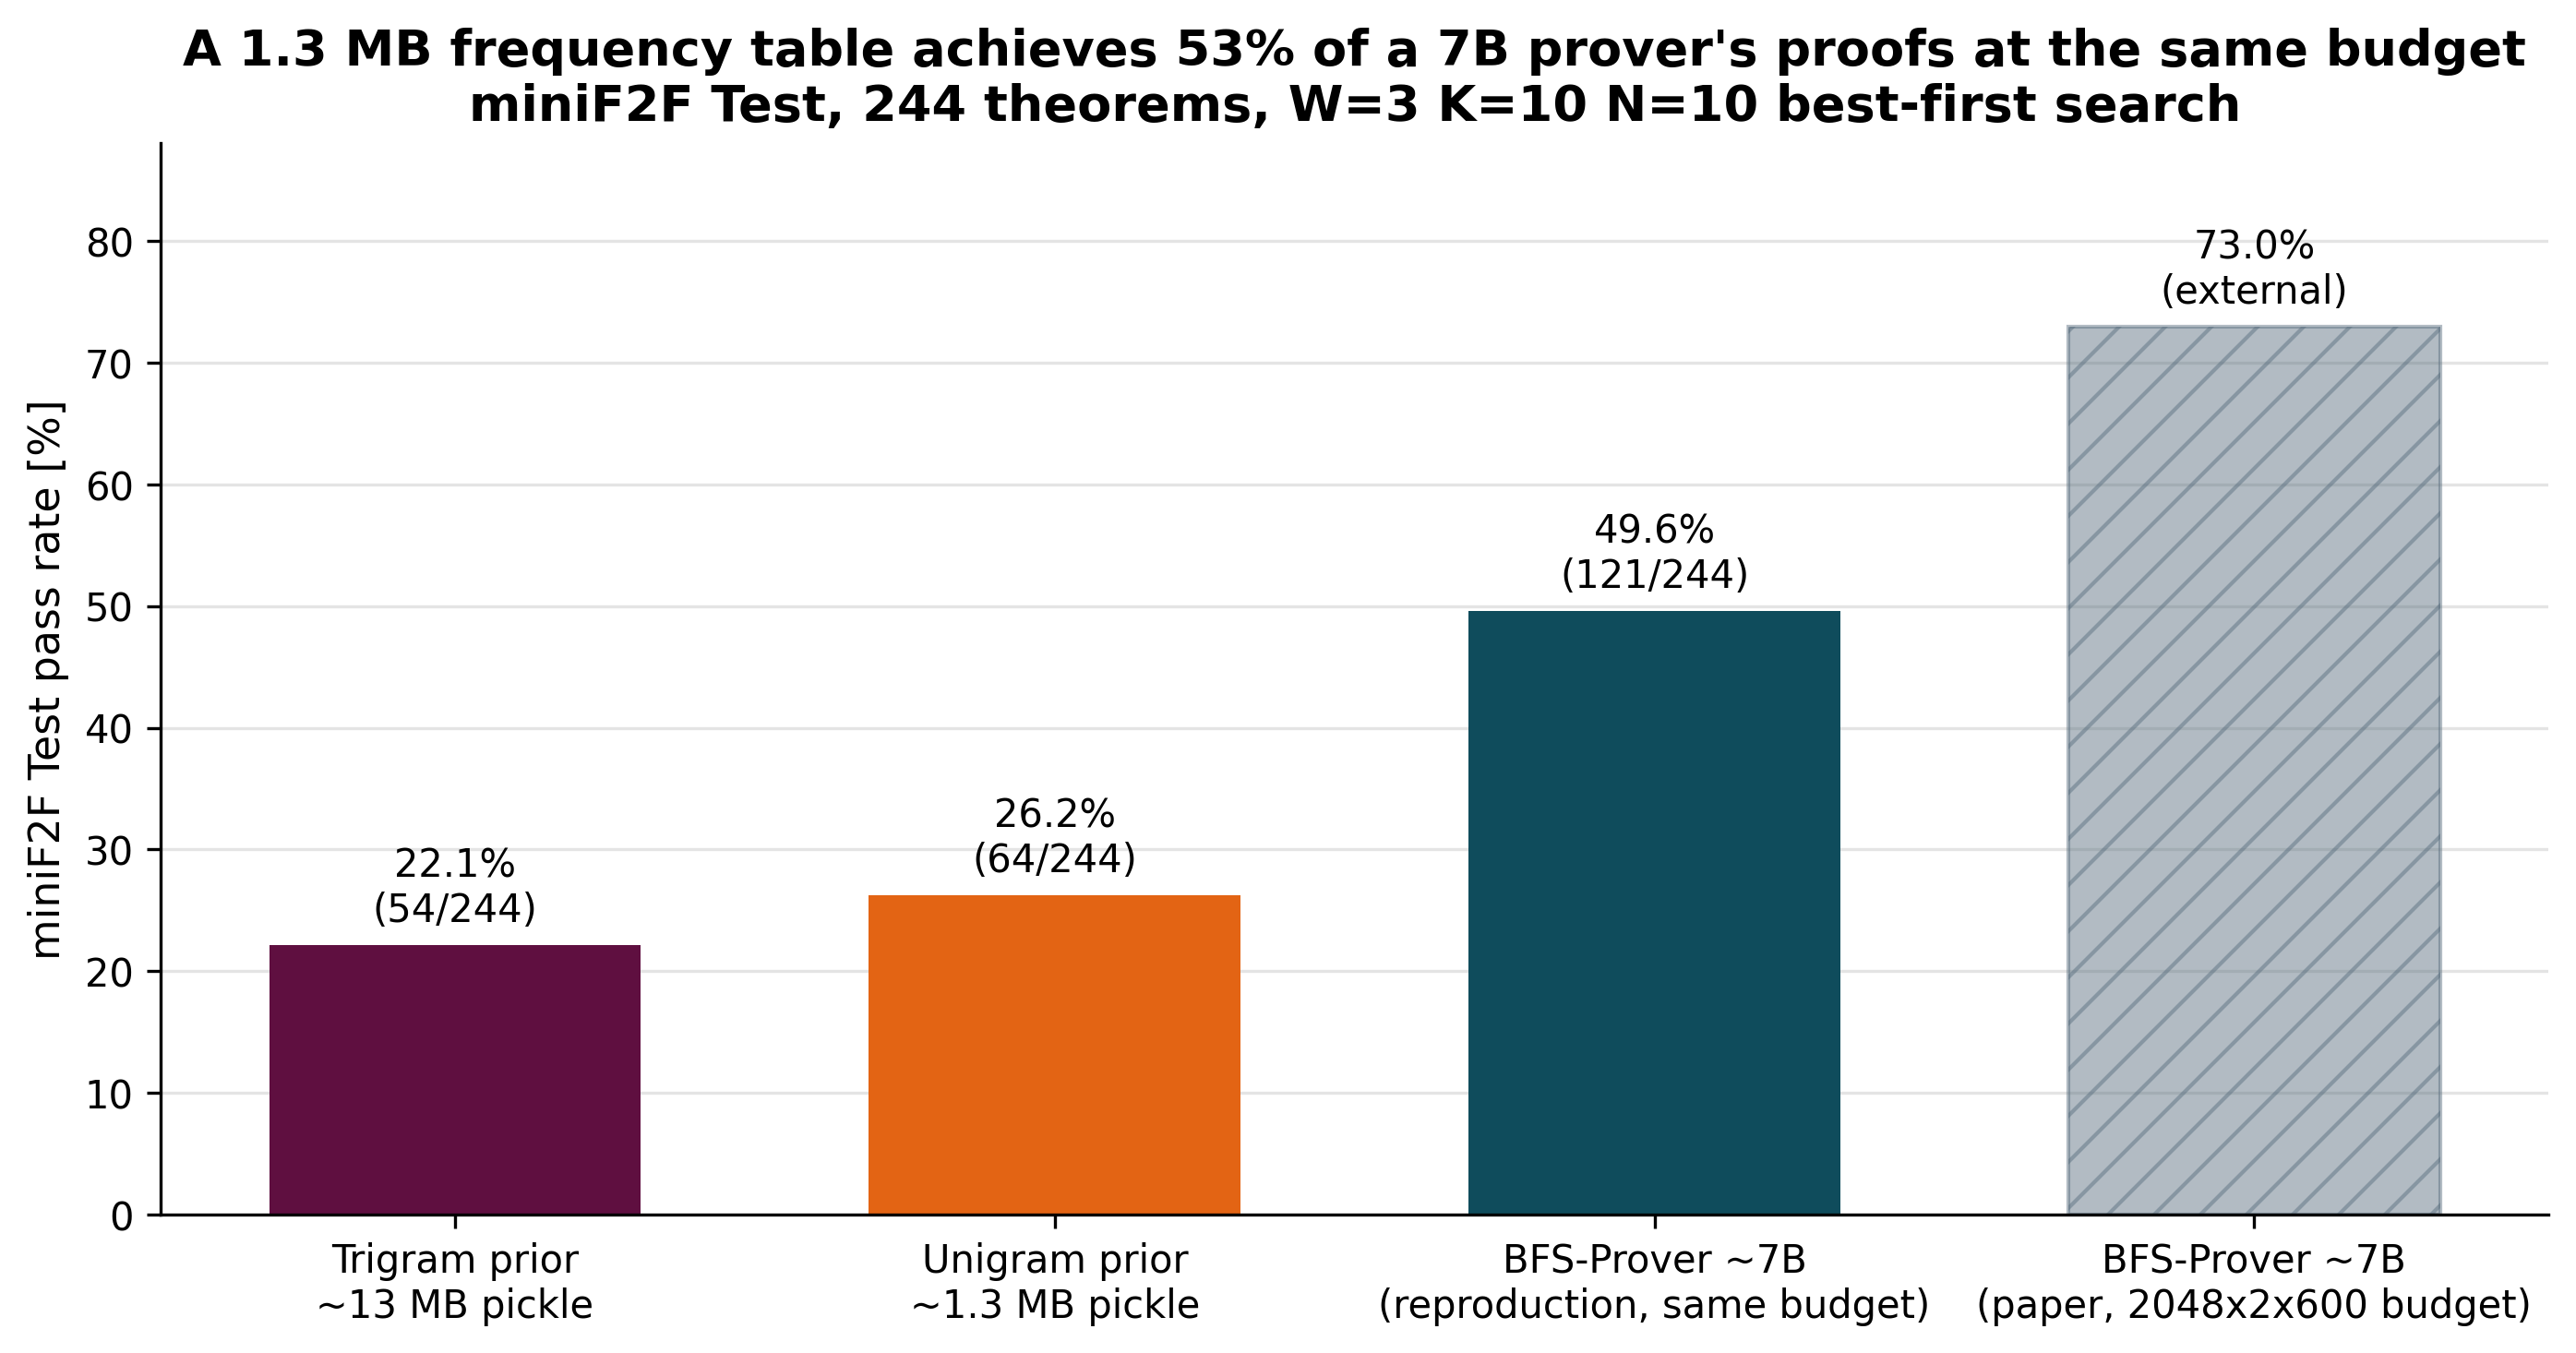
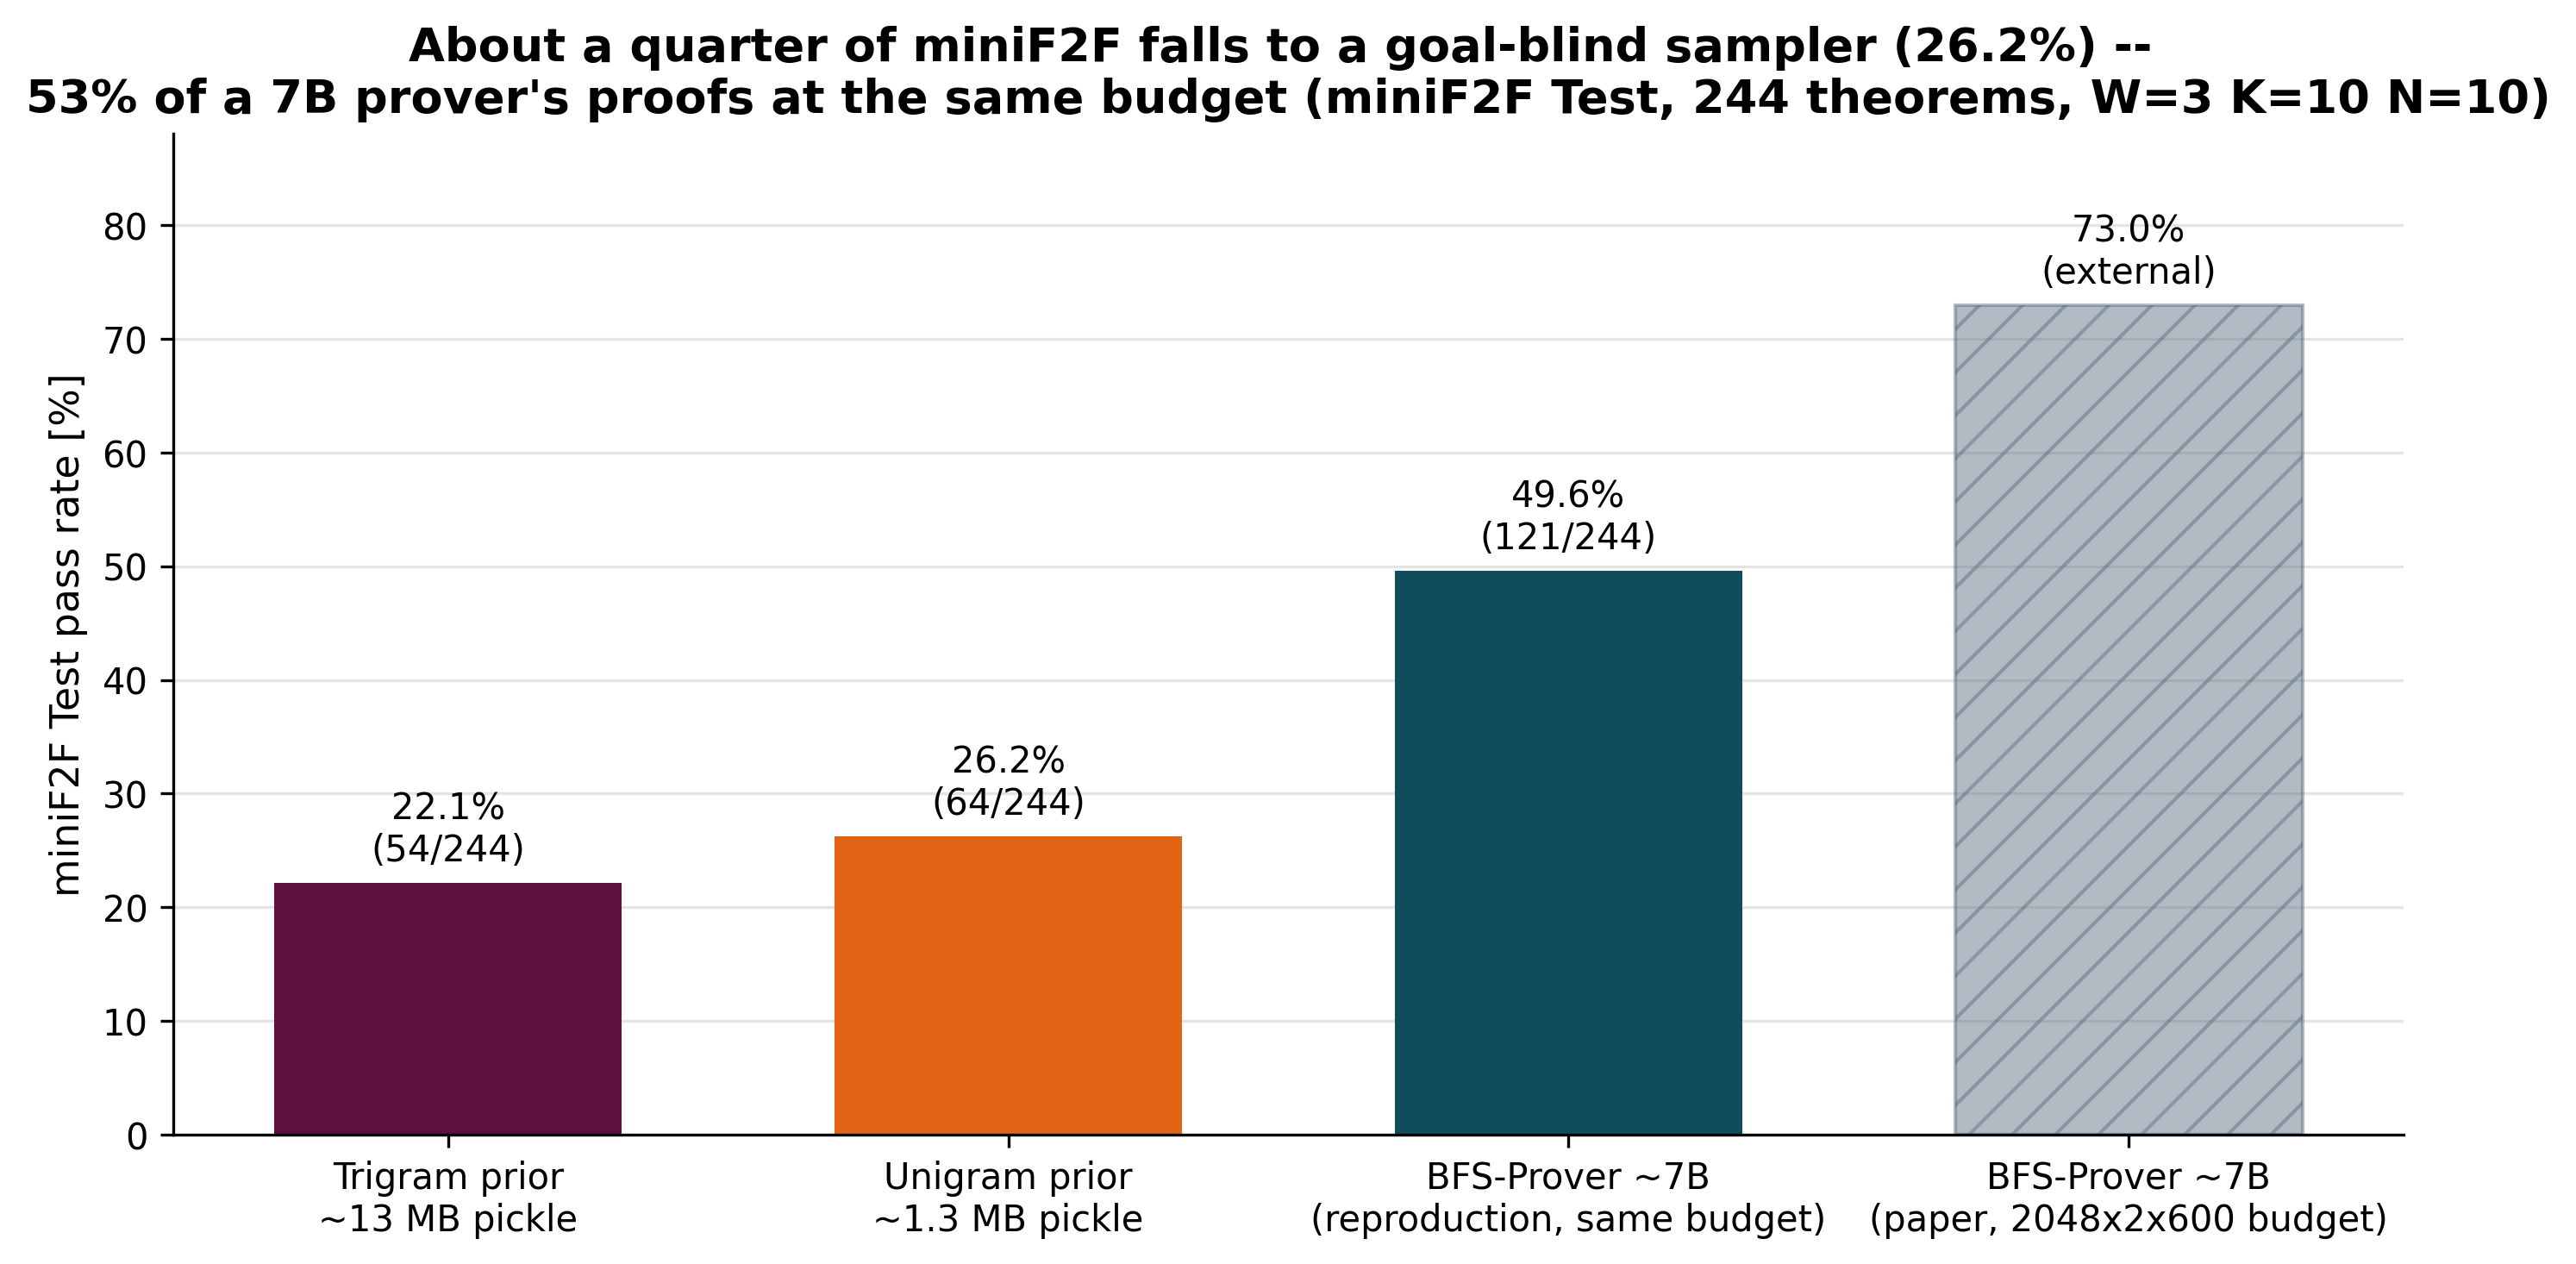
Rebrand to Generated Formal Theorem Proofs; lead with goal-blind quarter-of-miniF2F claim
- README: new project name and headline (about a quarter of miniF2F Test
  falls to goal-blind samplers of the Mathlib4 empirical MLE tactic
  distribution: unigram 26.2%, trigram 22.1%), with the same-budget 7B
  BFS-Prover comparison (49.6%) as the second finding. All numbers unchanged.
- README notes the Python package keeps the name tactic_priors; clone URL
  updated to generated-formal-theorem-proofs; pyproject project name renamed
  (editable install and tests unaffected).
- Evidence hygiene: artifacts/solved_indexes.json explicitly labelled as an
  INTERMEDIATE SNAPSHOT (98/44/50 of 244 solved vs final aggregated
  121/64/54); README, notebook, and methodology state that the final
  per-pass evaluation logs live on the university cluster. The not-a-subset
  finding is qualified as snapshot-level.
- Notebook re-executed end to end (incl. held-out section on
  random/val.json); fig2 regenerated with the new takeaway title. Other
  figures unchanged.

diff --git a/README.md b/README.md
@@ -1,24 +1,33 @@
-# tactic-priors
+# Generated Formal Theorem Proofs
 
-**How much of neural theorem-proving performance is explained by simple
-statistical priors?**
+**Approximately a quarter of miniF2F is trivially provable -- by a sampler
+that never looks at the goal.**
 
-Neural provers for Lean 4 are typically compared against each other, rarely
-against the dumbest possible baseline. This repository asks what a
-*context-free frequency table* of Mathlib4 tactics -- and its trigram
-extension -- can prove on miniF2F when plugged into exactly the same
-best-first proof search as a 7B-parameter neural prover, under exactly the
-same search budget.
+The baselines in this repository are *goal-blind*: neither the unigram nor
+the trigram ever reads the theorem statement or the proof state. They sample
+tactics from the empirical MLE tactic distribution of Mathlib4 (LeanDojo
+Benchmark 4) -- the unigram by raw frequency, the trigram conditioned only on
+the two *preceding tactics*, still never on the goal. Plugged into a standard
+best-first proof search, the unigram proves **26.2%** of miniF2F Test
+(64/244) -- about a quarter of the benchmark -- and the goal-blind trigram
+proves **22.1%** (54/244).
+
+The second finding: under exactly the same search budget, a 7B-parameter
+neural prover (BFS-Prover reproduction) proves **49.6%** (121/244). The
+goal-blind frequency table therefore accounts for roughly half of the neural
+system's small-budget performance -- a baseline that neural provers are
+rarely compared against.
 
 ## Approach
 
 1. Count every traced tactic invocation in LeanDojo Benchmark 4
    (`random/train.json`, Mathlib4) to obtain an empirical tactic
    distribution (16,850 distinct tactic strings occurring more than once).
-2. Build two priors: a **unigram** model (sample tactics by frequency,
-   ignore the proof state) and a **trigram** model (condition on the two
-   preceding tactics, with rare tactics collapsed into a pseudo-word below
-   an empirical-probability threshold of 1e-5).
+2. Build two goal-blind priors: a **unigram** model (sample tactics by
+   frequency, ignore the proof state entirely) and a **trigram** model
+   (condition on the two preceding tactics -- never on the goal -- with rare
+   tactics collapsed into a pseudo-word below an empirical-probability
+   threshold of 1e-5).
 3. Evaluate all systems with the same W x K x N best-first search driver
    over LeanDojo: W candidate tactics per expanded state, N frontier
    expansions per pass, K independent passes, frontier re-selected by
@@ -29,27 +38,38 @@ same search budget.
 
 | System | Params / size | Pass rate |
 |---|---|---|
+| Unigram prior (goal-blind) | ~1.3 MB pickle | **26.2%** (64/244) |
+| Trigram prior (goal-blind) | ~13 MB pickle | **22.1%** (54/244) |
 | BFS-Prover (reproduction, same budget) | ~7B | **49.6%** (121/244) |
-| Unigram prior | ~1.3 MB pickle | **26.2%** (64/244) |
-| Trigram prior | ~13 MB pickle | **22.1%** (54/244) |
 | BFS-Prover paper (arXiv:2502.03438), budget 2048x2x600 | ~7B | 72.95% (external reference) |
 
 ## Key findings
 
-- **Priors get you about half.** A 1.3 MB state-blind frequency table
-  proves 64 of the 121 theorems the 7B prover proves under the same budget
-  (26.2% vs 49.6% pass rate, a ratio of 0.53). Roughly half of
-  small-budget neural proving performance on miniF2F is explained by
-  "guess popular tactics".
+- **About a quarter of miniF2F falls to goal-blind sampling.** A 1.3 MB
+  frequency table that never inspects the goal proves 64/244 theorems
+  (26.2%); the trigram, equally goal-blind, proves 54/244 (22.1%). That
+  slice of the benchmark is solved by "guess popular Mathlib4 tactics" --
+  no reading of the statement required.
+- **The 7B prover roughly doubles the goal-blind baseline at this budget.**
+  BFS-Prover proves 121/244 (49.6%) under the same W=3 K=10 N=10 search,
+  vs 64/244 for the unigram -- a pass-rate ratio of 0.53. Roughly half of
+  small-budget neural proving performance on miniF2F is explained by tactic
+  popularity alone.
 - **More context, fewer proofs: trigram < unigram.** Conditioning on the
   two preceding tactics *reduces* search performance (22.1% vs 26.2%). The
   notebook's held-out analysis shows why this is a search effect, not a
   modelling failure -- see `notebooks/analysis.ipynb` for the measured
   proposal-diversity numbers.
-- **The baselines are not a strict subset of the prover.** In the solved-set
-  snapshot (`artifacts/solved_indexes.json`), several theorems are solved
-  by the n-gram baselines but missed by BFS-Prover; exact overlap counts
-  are computed in the notebook.
+- **The baselines are not a strict subset of the prover (snapshot
+  evidence).** `artifacts/solved_indexes.json` is an *intermediate
+  snapshot* exported from the cluster comparison script -- it reflects
+  98/44/50 solved theorems (BFS-Prover/unigram/trigram) out of 244, i.e. it
+  predates the final passes that produced the aggregated counts 121/64/54.
+  Within that snapshot, several theorems are solved by the n-gram baselines
+  but missed by BFS-Prover; exact overlap counts are computed in the
+  notebook and labelled as snapshot-level. The final per-pass evaluation
+  logs live on the university cluster and are not distributed with this
+  repository.
 
 ## Figures
 
@@ -70,9 +90,9 @@ same search budget.
 | 3. Lean solutions (human-written) | miniF2F proofs replacing upstream `sorry` | `minif2f_solutions/` (79 Valid + 2 Test; see its README for licensing) |
 
 ```
-tactic-priors/
+generated-formal-theorem-proofs/
 ├── src/tactic_priors/      # ngram_models, build_distribution, search
-├── artifacts/              # tactic CSV, trained pickles, solved indexes
+├── artifacts/              # tactic CSV, trained pickles, solved-index snapshot
 ├── notebooks/analysis.ipynb# executed analysis (figures reproducible offline)
 ├── figures/                # publication figures (PNG 300dpi + SVG)
 ├── minif2f_solutions/      # Lean 4 proofs (statements: Apache-2.0 upstream)
@@ -81,10 +101,14 @@ tactic-priors/
 └── tests/                  # pytest (CPU-only)
 ```
 
+The Python package is named `tactic_priors` (`import tactic_priors`); the
+module and artifact names predate the project name and are kept stable so
+the committed pickles, notebook, and tests keep working unchanged.
+
 ## Reproduce tier 1
 
 ```bash
-git clone https://github.com/amitaminov/tactic-priors.git && cd tactic-priors
+git clone https://github.com/amitaminov/generated-formal-theorem-proofs.git && cd generated-formal-theorem-proofs
 python -m venv .venv && . .venv/bin/activate   # or .venv\Scripts\activate
 pip install -e ".[dev]"
 pytest -q                                       # all CPU-only tests

diff --git a/docs/methodology.md b/docs/methodology.md
@@ -130,7 +130,9 @@ reference for the baselines above.
   intermediate comparison snapshot exported from the cluster; its set sizes
   (98/44/50) are smaller than the final aggregated counts (121/64/54)
   because it predates the last passes of each run. Overlap conclusions in
-  the notebook are drawn from the snapshot and labelled as such.
+  the notebook are drawn from the snapshot and labelled as such. The
+  final per-pass evaluation logs live on the university cluster and are
+  not distributed with this repository.
 - **Statement-level contamination is not controlled.** Mathlib4 tactic
   frequencies are used to prove miniF2F theorems; the domains differ, but
   no de-duplication analysis was performed.